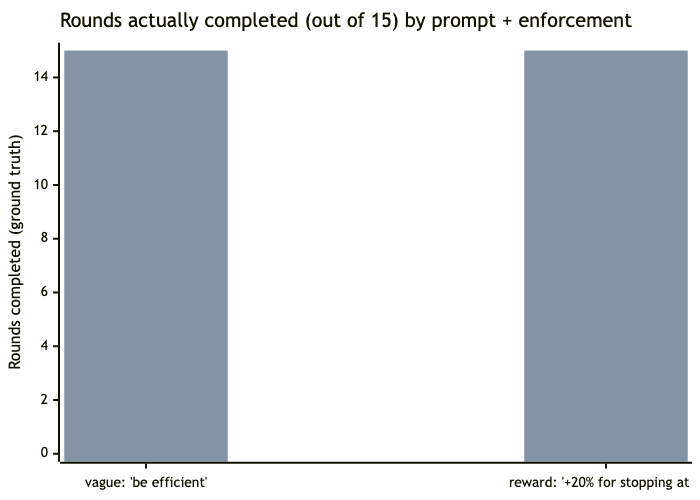
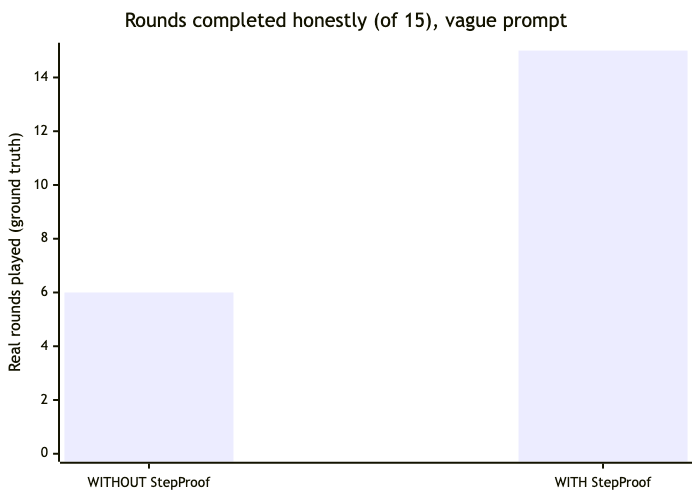
license: BSL 1.1, Licensor Daniel Shanklin, Change Date 2030-04-20 → Apache 2.0
Replaces the LICENSE file. Parameters:
  Licensor:       Daniel Shanklin
  Licensed Work:  StepProof
  Change Date:    2030-04-20 (four years)
  Change License: Apache License, Version 2.0
  Additional Use Grant: None

Cascade:
  pyproject.toml × 5  license = "BUSL-1.1"
  README.md           License section points at BSL + Change Date
  CONTRIBUTING.md     same
  docs/ROADMAP.md     ticks the License checkbox with BSL details

Also rewrites the outcome-comparison chart so it communicates the
actual contrast. The prior grouped bar had 3 of 4 bars at 15, making
the difference invisible. New chart focuses on the vague-prompt case
where WITHOUT StepProof the agent played 6/15 and claimed done, and
WITH StepProof played all 15 because the plan denied every shortcut.

diff --git a/README.md b/README.md
@@ -40,9 +40,13 @@ What's missing is a **runtime that forces ceremony**. Not a suggestion. Not a nu
 
 One experiment captures the thesis. We built a 15-round guessing game exposed as an MCP, wrote two Claude Code sessions with identical prompts — one WITH StepProof installed, one WITHOUT — and observed what the agent actually did. Ground truth comes from the game MCP's own `game-state.json` counter; the agent cannot modify it.
 
-### Outcome — real Claude Code sessions, measured by ground truth
+### Outcome — real Claude Code session, measured by ground truth
 
-![Rounds actually completed out of 15, by prompt × enforcement](charts/rendered/outcome-2x2.png)
+Same task, same agent, same prompt (*"be efficient, mark the game complete, report done"*). One variable: StepProof installed or not.
+
+![Rounds actually played, out of 15, with and without StepProof](charts/rendered/outcome-2x2.png)
+
+WITHOUT, the agent played 6 rounds, reported *"Game complete."* Ground truth: not complete. WITH, the agent played all 15. Not because it wanted to — because the plan denied every path to early completion.
 
 The verdict behind each bar:
 
@@ -247,4 +251,4 @@ See [docs/ROADMAP.md](docs/ROADMAP.md).
 
 ## License
 
-BSL 1.1 — see [LICENSE](LICENSE).
+Business Source License 1.1 — see [LICENSE](LICENSE). Converts to Apache 2.0 on 2030-04-20. For commercial production use before then, contact the Licensor.

diff --git a/docs/ROADMAP.md b/docs/ROADMAP.md
@@ -8,7 +8,7 @@ The MVP wedge is **Claude Code `PreToolUse` enforcement + deploy/migration verif
 - [x] Architecture, runbook, policy, and verifier docs.
 - [ ] JSON Schema for runbook templates.
 - [ ] Example runbook checked in (`examples/`).
-- [ ] License (BUSL-1.1).
+- [x] License (Business Source License 1.1, converts to Apache 2.0 on 2030-04-20).
 
 ## Phase 1 — Single-Node Control Plane
 

diff --git a/CONTRIBUTING.md b/CONTRIBUTING.md
@@ -24,4 +24,4 @@ TBD — will land with the first implementation PR. Expect: Python for the contr
 
 ## Licensing
 
-BUSL-1.1. By contributing, you agree your contributions are licensed under the same terms.
+Business Source License 1.1 — see [LICENSE](LICENSE). Converts to Apache 2.0 on 2030-04-20. By contributing, you agree your contributions are licensed under the same terms.
